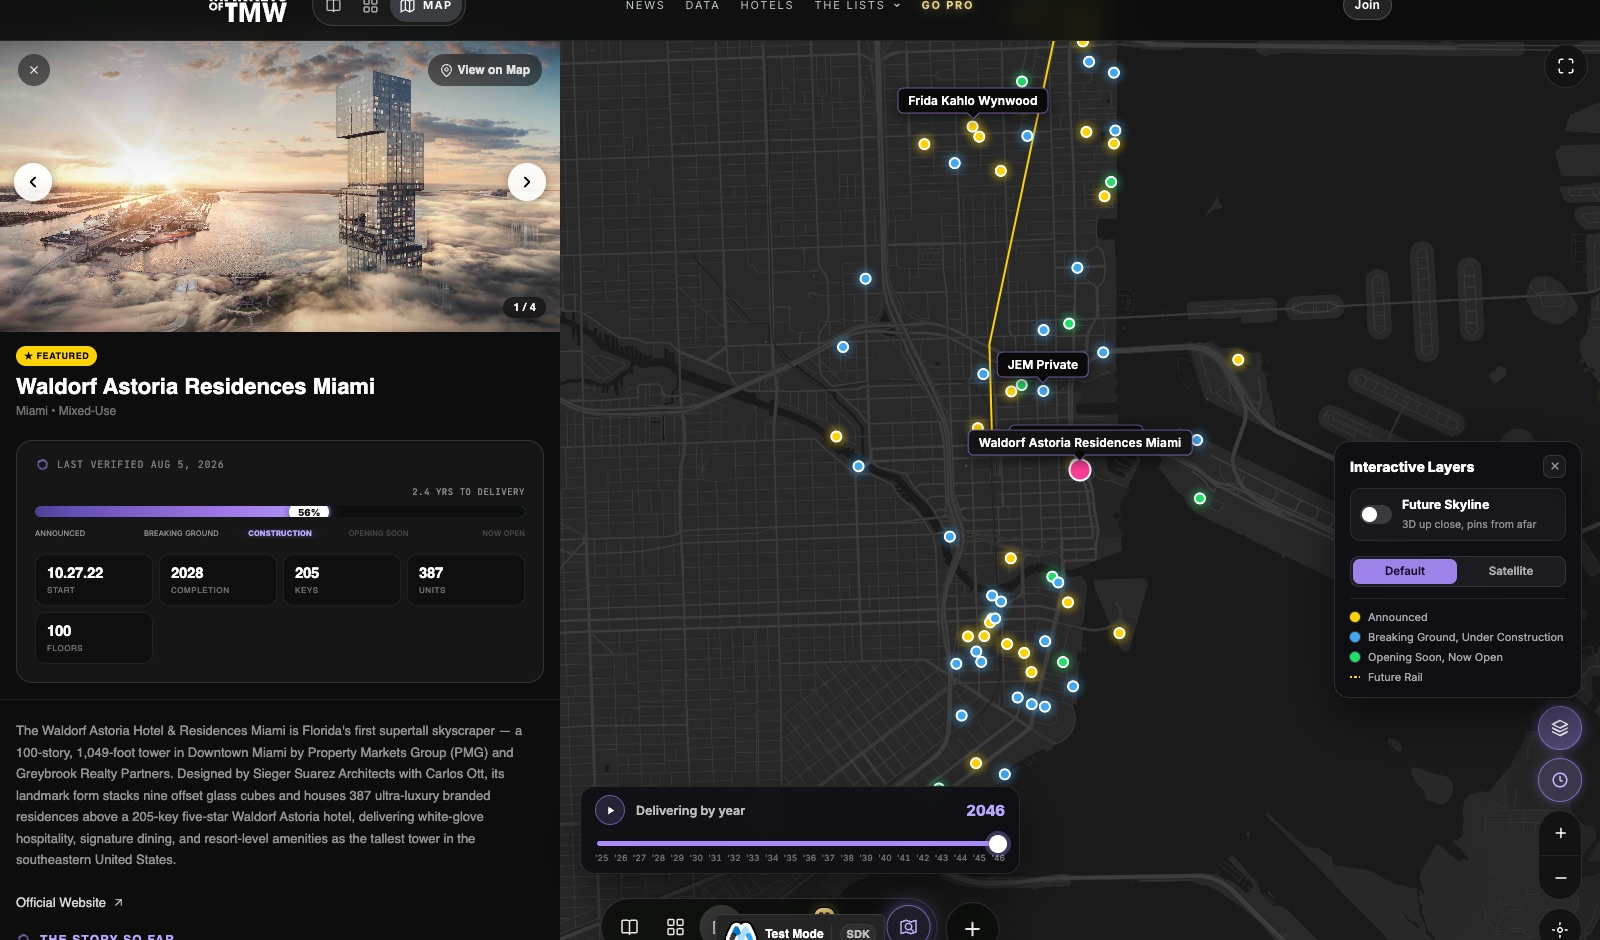
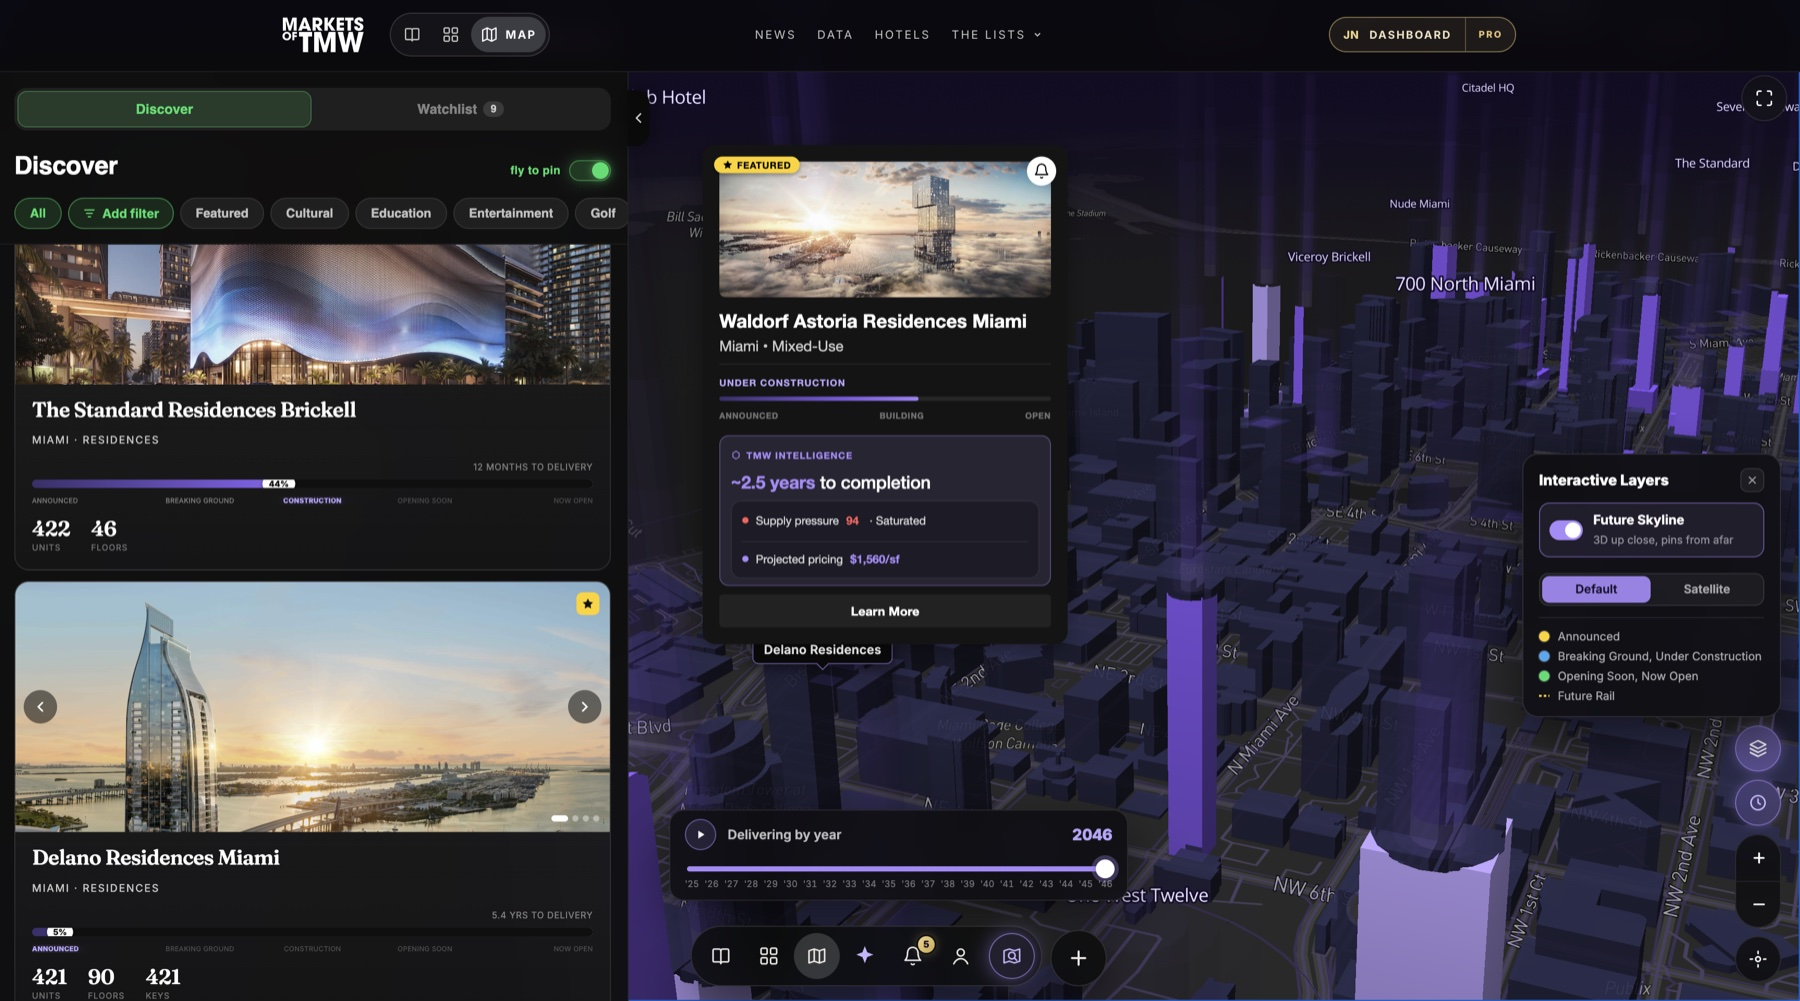
Use Jake's Future Skyline screenshot in the Novaverse deck
Replaces my headless capture with the real 3D shot: Discover rail, the
Waldorf card open, Future Skyline on, the delivery-year scrubber and the
Interactive Layers panel all visible. Downscaled to 1800px and the twin slot
realigned to the card's hero image in the new frame.

diff --git a/journal/media/novaverse/index.html b/journal/media/novaverse/index.html
@@ -1064,13 +1064,13 @@ nav .wrap{display:flex; align-items:center; justify-content:space-between}
     <div class="reveal d1" style="margin-bottom:52px">
       <div class="shotwrap">
         <img src="/media/novaverse/img/shot-map.jpg" alt="The Map of Tomorrow with a project open, showing where a Novaverse twin would play" loading="lazy">
-        <div class="slot" style="left:0.6%; top:7.4%; width:34%; height:30.5%">
+        <div class="slot" style="left:39.9%; top:15.5%; width:18.5%; height:13.6%">
           <span class="lbl">Novaverse twin</span>
           <span class="play"><svg viewBox="0 0 24 24"><path d="M8 5v14l11-7z"/></svg></span>
           <span class="tag"><span class="pdot"></span>Powered by <b>Novaverse</b></span>
         </div>
       </div>
-      <div class="shotcap"><b>Live product</b> <span>The project card on the map today. That still image becomes your twin, playing in place, with the credit line under it. Everything else on the screen is ours and already live.</span></div>
+      <div class="shotcap"><b>Live product</b> <span>The map with the Future Skyline layer on, a project open beside it. That still image inside the card becomes your twin, playing in place, with the credit line under it. Everything else on the screen is ours and already live.</span></div>
     </div>
 
     <div class="reveal d1" style="margin-bottom:60px">
